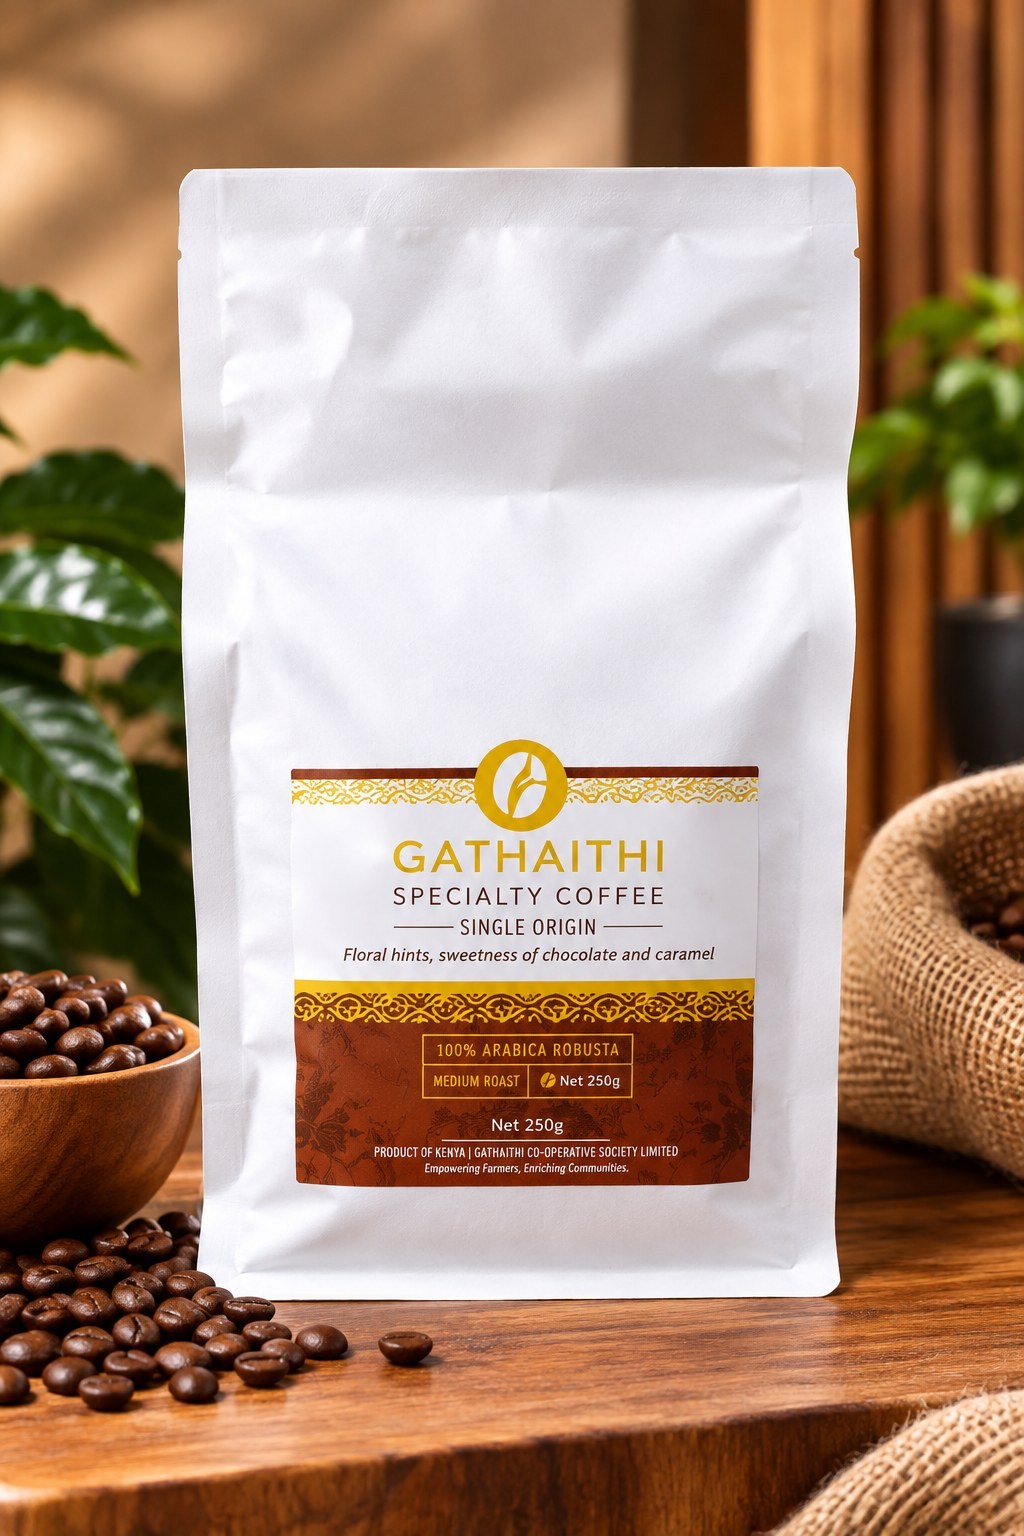
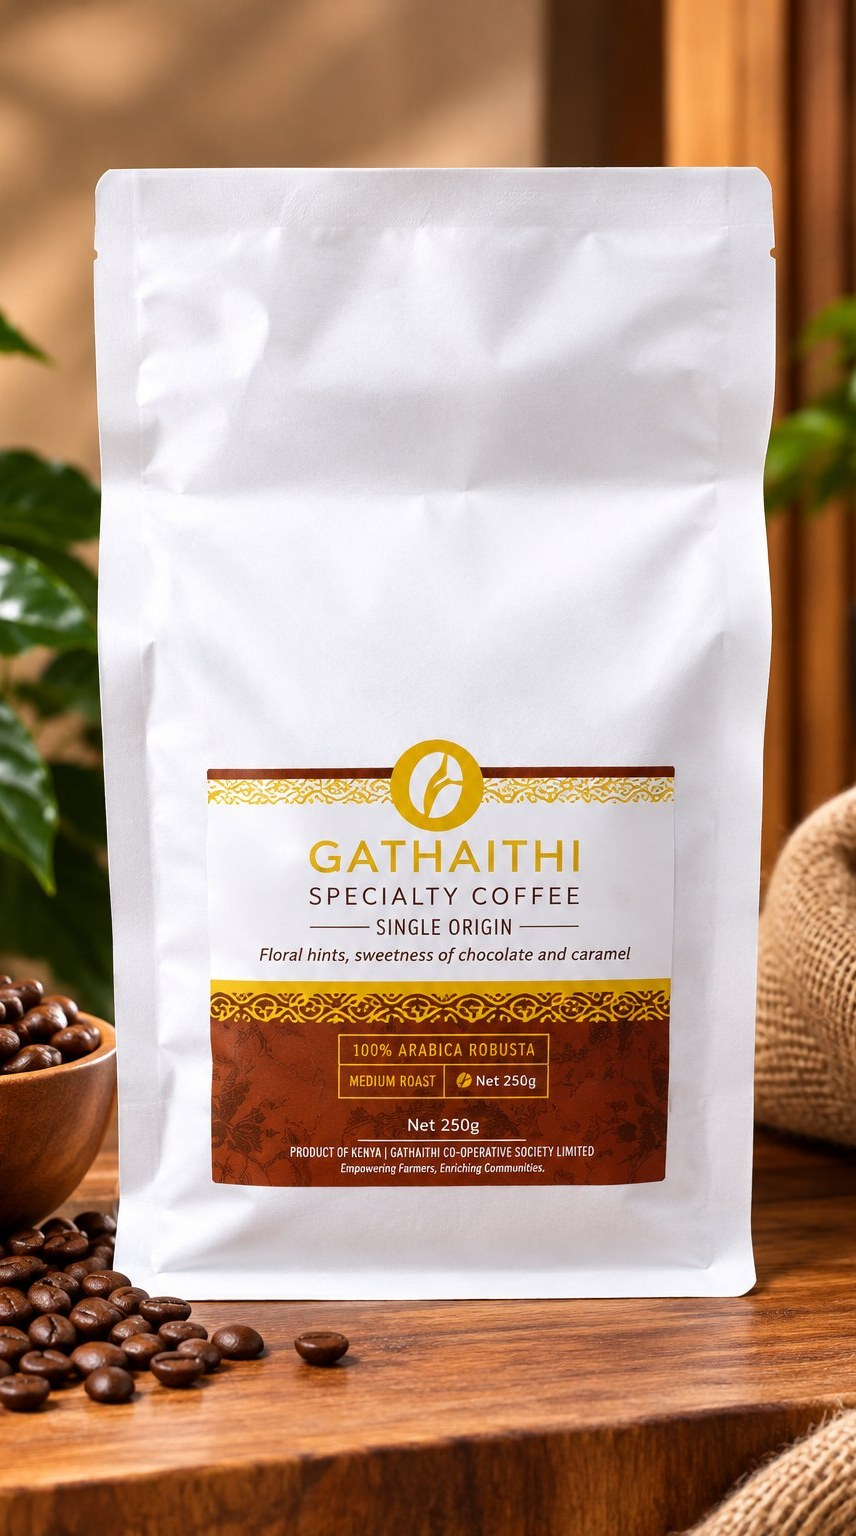
Even up the pack photographs, drop the processing lead, and put the pack in the phone hero (#82)
THE 1KG CARD WAS NOT SLIMMER. Measured at 390, 640, 768, 900, 1023, 1024,
1280, 1440 and 1920, all four cards are the same width at every one of
them. What differed was the PHOTOGRAPH: the pack sat at 68% of the frame
in three files and 74% in the 250 g, and the 250 g was a different ratio
besides (0.667 against 0.558), so `cover` cropped it differently again and
zoomed it further.

Both are fixed at the source rather than in CSS. The three loose frames
are cropped so their packs reach 74%, and the 250 g is cropped to the same
0.558 ratio so `cover` now treats all four identically. Measured off the
rendered pixels the pack fills 54 / 60 / 59 / 53% of its frame — a spread
of 7 points, down from 11. What is left is the packs being photographed
from slightly different distances, which no crop fixes without distorting
them. Fixing only the 1 kg would have made the 100 g and 500 g the odd
ones out, so all four moved.

THE PROCESSING LEAD IS GONE. It sat above six numbered steps that say the
same thing at length and with photographs — a summary of what the reader
was about to read. `lead` is removed from the type, not left unread.

THE PACK IS THE FIFTH PHONE HERO FRAME. Slide five was the one with no
portrait counterpart: on a phone it fell back to a landscape frame cropped
hard. It is the 250 g pack now — the thing the society actually sells, in
a rotation that was otherwise all field and fruit. It shares the file with
[…]

diff --git a/content/images.ts b/content/images.ts
@@ -646,7 +646,7 @@ export const images = {
     minHeight: 1500,
     direction: 'Portrait. Roasted beans and a wooden scoop on dark timber. Supplied with the wordmark set into the lower left of the frame.',
     alt: 'Roasted Gathaithi coffee beans spilling from a wooden scoop across dark timber.',
-    sizes: '(max-width: 1023px) 67vh, 100vw',
+    sizes: '(max-width: 1023px) 56vh, 100vw',
   },
   heroMobileTwo: {
     file: 'hero-mobile-02.jpg',
@@ -710,7 +710,7 @@ export const images = {
     page: 'Our Coffee',
     section: 'Retail packs',
     ratio: '9/16',
-    minWidth: 1000,
+    minWidth: 850,
     minHeight: 1530,
     direction: 'Supplied. The 250 g pack standing on a bench, coffee plant behind.',
     alt: 'A 250 g pack of Gathaithi Specialty Coffee standing on a wooden bench.',
@@ -895,6 +895,28 @@ export const images = {
     direction: 'Supplied. Members along a drying bed, some reaching into the parchment, the drying ground and greenhouse behind.',
     alt: 'Gathaithi members standing along a raised drying bed, hands in the parchment, the drying ground and greenhouse behind them.',
     sizes: '(min-width: 1024px) 70vw, 92vw',
+  },
+
+  /* The retail pack, as the fifth PHONE hero frame.
+
+     Slide five was the one with no portrait counterpart: on a phone it fell
+     back to its landscape frame and a hard crop. The pack is portrait, it is
+     the thing the society actually sells, and it puts a product in a rotation
+     that was otherwise all field and fruit.
+
+     It shares `pack-250g.jpg` with the Our Coffee catalogue. That is safe
+     because they are DIFFERENT PAGES — the rule this would otherwise break is
+     that no single page should fetch one file at two sizes. */
+  heroMobileFive: {
+    file: 'pack-250g.jpg',
+    page: 'Home',
+    section: 'Hero — mobile',
+    ratio: '9/16',
+    minWidth: 850,
+    minHeight: 1530,
+    direction: 'Supplied. The 250 g pack standing on a bench, coffee plant behind. Shared with the Our Coffee catalogue.',
+    alt: 'A 250 g pack of Gathaithi Specialty Coffee standing on a wooden bench.',
+    sizes: '(max-width: 1023px) 67vh, 100vw',
   },
 
   partnerCms: {

diff --git a/src/components/home/Hero.tsx b/src/components/home/Hero.tsx
@@ -46,8 +46,9 @@ export function Hero({ content }: { content: HomeContent['hero'] }) {
      the fetch, so a phone takes only the portrait and a desktop only the
      landscape.
 
-     Slide five has no portrait counterpart and falls back to its landscape
-     frame, whose crop was already tuned for a phone. */
+     All five have a portrait counterpart now. The fifth is the retail pack —
+     the thing the society sells — which also closes the one case where a
+     phone still got a landscape frame cropped hard. */
   const srcSetFor = (slot: Parameters<typeof getImage>[0], quality: number) => {
     const slide = getImage(slot);
     if (!slide.exists) return null;
@@ -75,7 +76,7 @@ export function Hero({ content }: { content: HomeContent['hero'] }) {
       ['homeHeroFour', 'heroMobileFour', 'object-center', 'object-center'],
       /* Sun flare top-left, cluster right. The type is bottom-left, so the
          crop keeps the cluster in and the flare out of the words. */
-      ['homeHeroFive', null, null, 'object-[64%_55%] lg:object-[58%_50%]'],
+      ['homeHeroFive', 'heroMobileFive', 'object-center', 'object-[64%_55%] lg:object-[58%_50%]'],
     ] as const
   )
     .map(([slot, mobileSlot, mobilePosition, position]) => ({

diff --git a/content/types.ts b/content/types.ts
@@ -303,7 +303,10 @@ export interface ProductsContent {
     statement: string;
     cta: Cta;
   };
-  process: { eyebrow: string; heading: string; lead: string; steps: ProcessStep[] };
+  /* No `lead` on `process`. The six steps below said what the sentence said,
+     at length and with photographs — a summary of what the reader was about
+     to read. */
+  process: { eyebrow: string; heading: string; steps: ProcessStep[] };
   sample: {
     eyebrow: string;
     heading: string;

diff --git a/content/en/products.ts b/content/en/products.ts
@@ -205,8 +205,7 @@ export const products: ProductsContent = {
   process: {
     eyebrow: 'Processing',
     heading: 'From cherry to parchment',
-    lead:
-      'Kenyan washed processing is exacting and Gathaithi does not shortcut it. Cherry delivered in the evening is pulped the same night and does not leave the mill until it has been fermented, washed, soaked and dried under supervision.',
+
     steps: [
       {
         n: '01',

diff --git a/src/components/products/ProcessWalkthrough.tsx b/src/components/products/ProcessWalkthrough.tsx
@@ -33,7 +33,6 @@ export function ProcessWalkthrough({ content }: { content: ProductsContent['proc
           id="process-heading"
           eyebrow={content.eyebrow}
           heading={content.heading}
-          lead={content.lead}
         />
 
         <ol className="mt-20 flex flex-col gap-24 lg:mt-28 lg:gap-32">

diff --git a/public/images/IMAGES.md b/public/images/IMAGES.md
@@ -82,7 +82,7 @@ before the photography exists.
 | `hero-mobile-03.jpg` | Home | Hero — mobile | 9:19 | 850×1840 | **Supplied, already in place.** Portrait, phone-shaped. Cherry cluster, sun through the leaves. Wordmark set into the lower left — **the scrim is heaviest there and it is hard to read**. |
 | `hero-mobile-04.jpg` | Home | Hero — mobile | 9:19 | 850×1840 | **Supplied, already in place.** Portrait, phone-shaped. A bed of green parchment. Wordmark set into the upper centre — **the placement that reads best over the scrim**. |
 | `pack-100g.jpg` | Our Coffee | Retail packs | 9:16 | 760×1350 | **Supplied, already in place.** The 100 g pack on a bench. |
-| `pack-250g.jpg` | Our Coffee | Retail packs | 9:16 | 1000×1530 | **Supplied, already in place.** The 250 g pack on a bench. |
+| `pack-250g.jpg` | Our Coffee + Home hero (mobile) | Retail packs | 9:16 | 1000×1530 | **Supplied, already in place.** The 250 g pack on a bench. |
 | `pack-500g.jpg` | Our Coffee | Retail packs | 9:16 | 760×1350 | **Supplied, already in place.** The 500 g pack on a bench. |
 | `pack-1kg.jpg` | Our Coffee | Retail packs | 9:16 | 760×1350 | **Supplied, already in place.** The 1 kg pack on a bench. **Label reads "100% ARABICA ROBUSTA" — flagged; those are two species.** |
 | `gathaithi-drying-beds-long.jpg` | Gallery | Gallery | 4:5 | 950×1090 | **Supplied, already in place.** A full-length drying bed of parchment, a worker turning it at the far end. |
